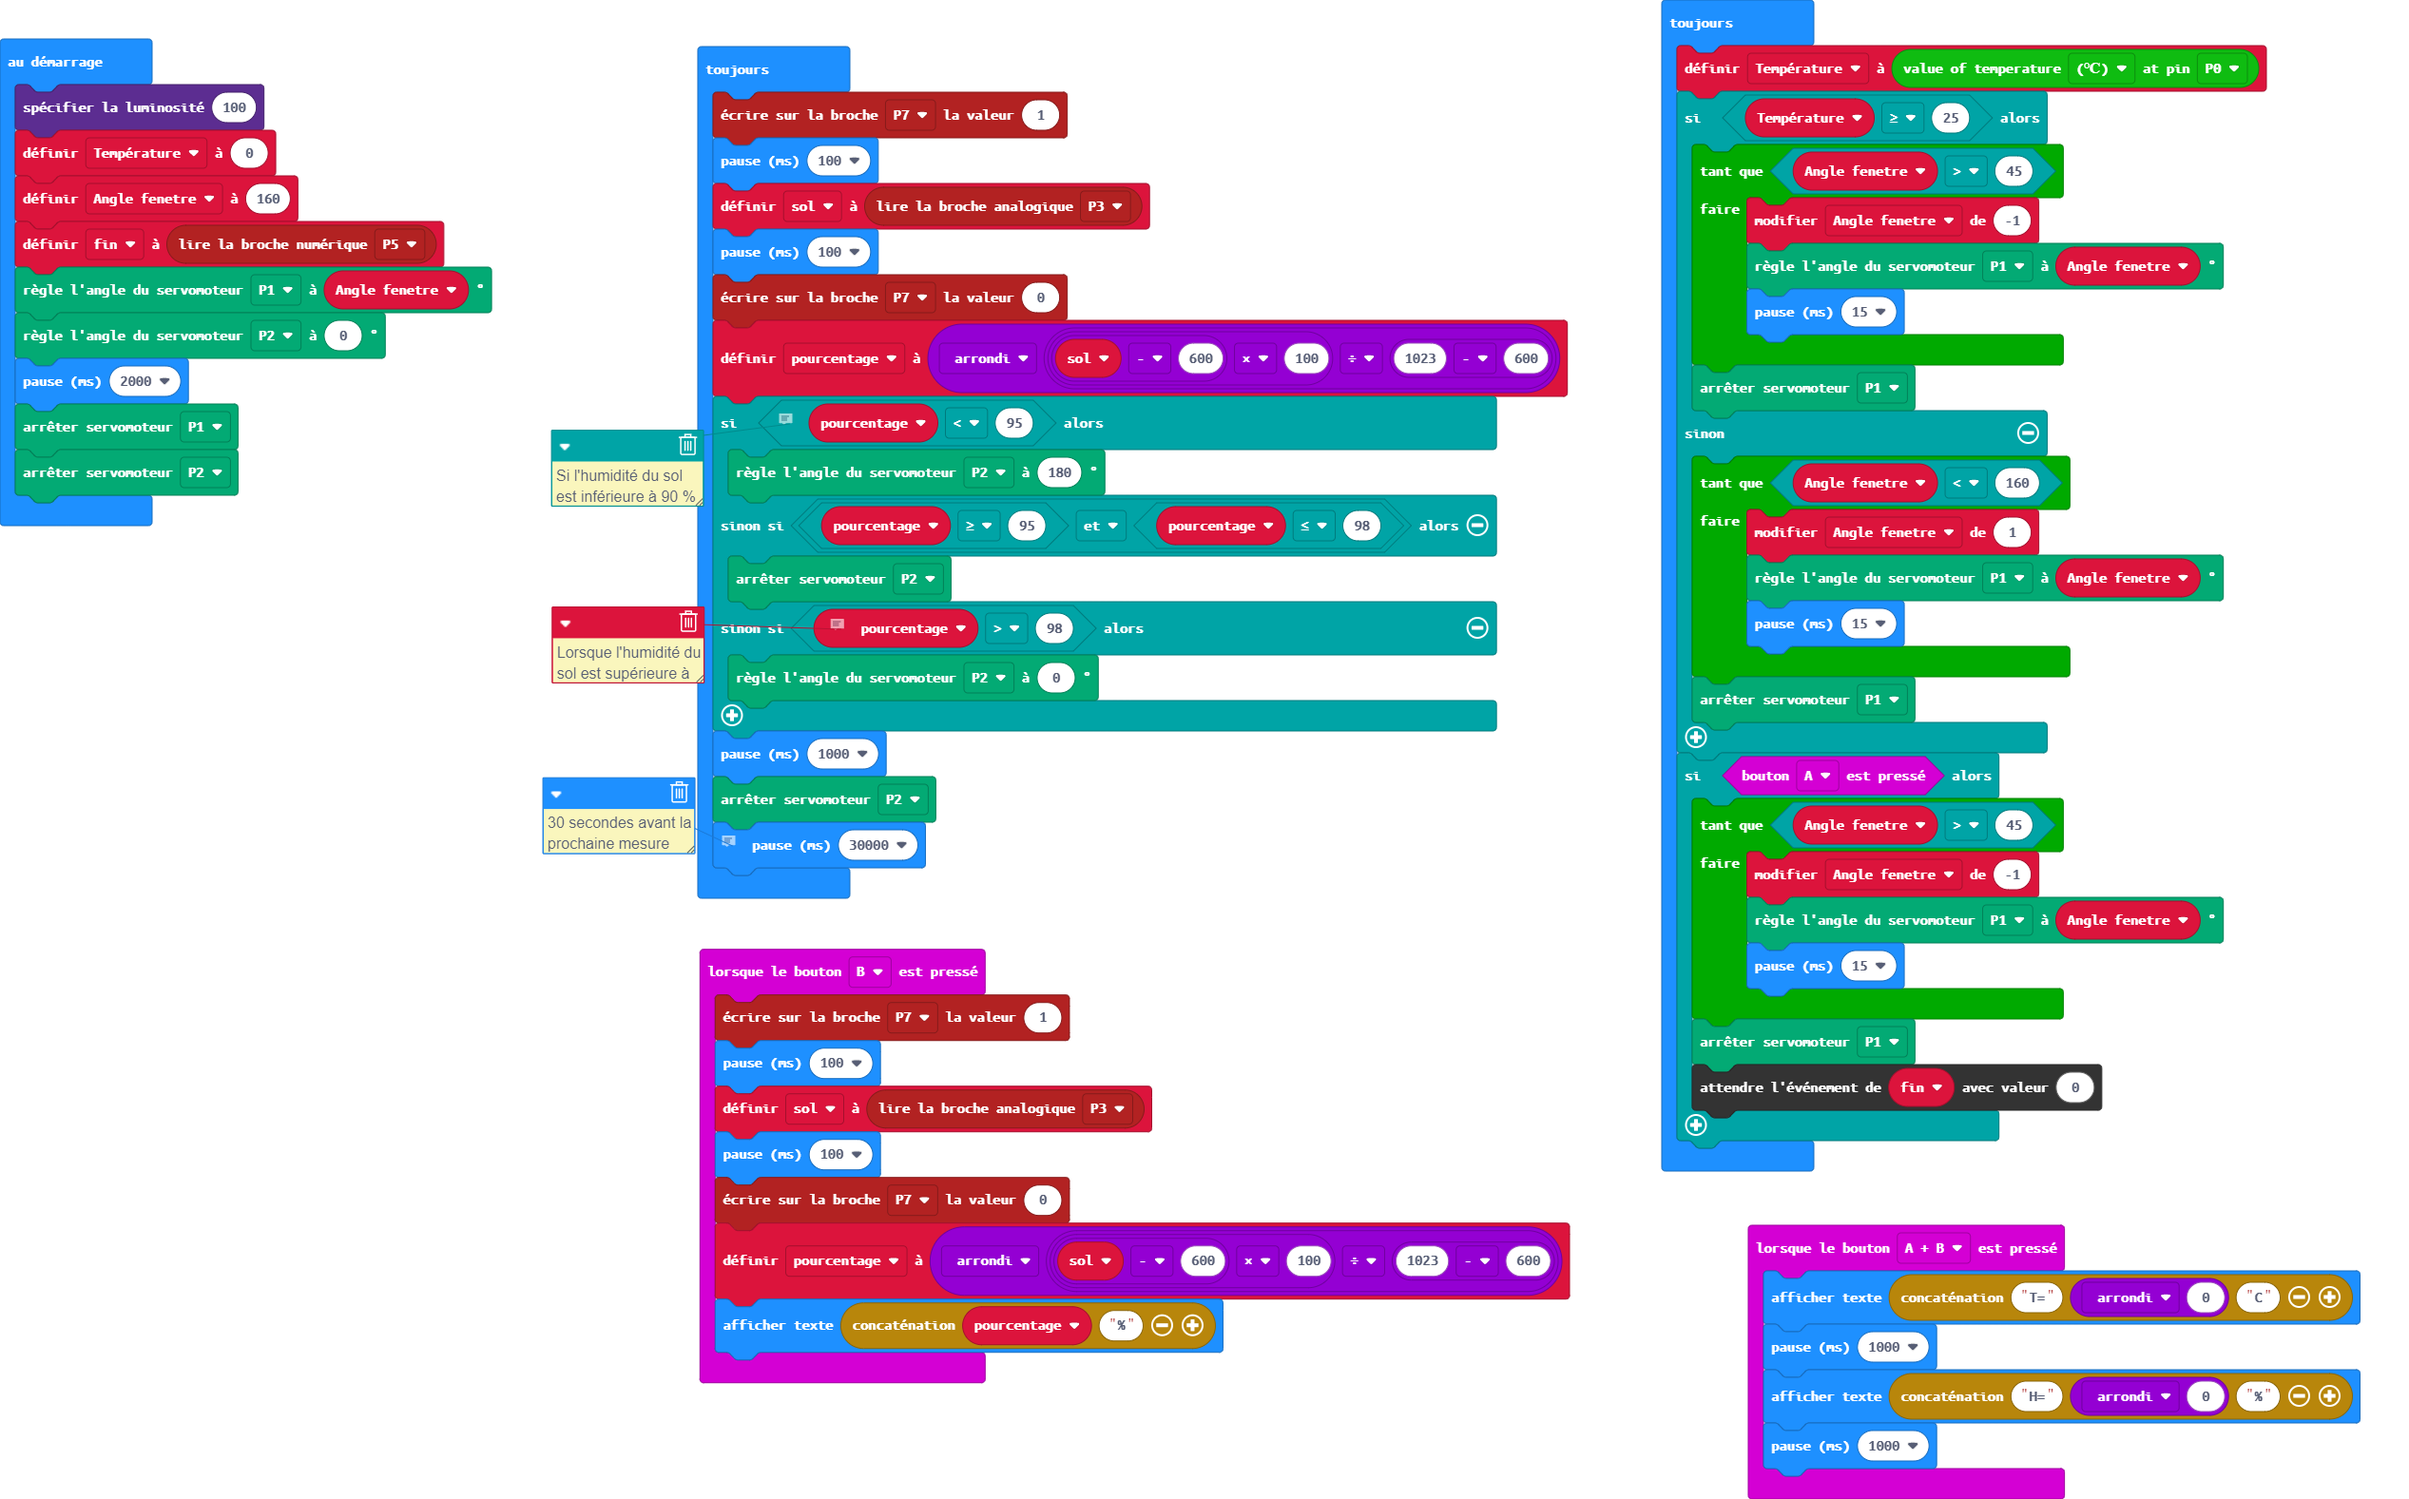
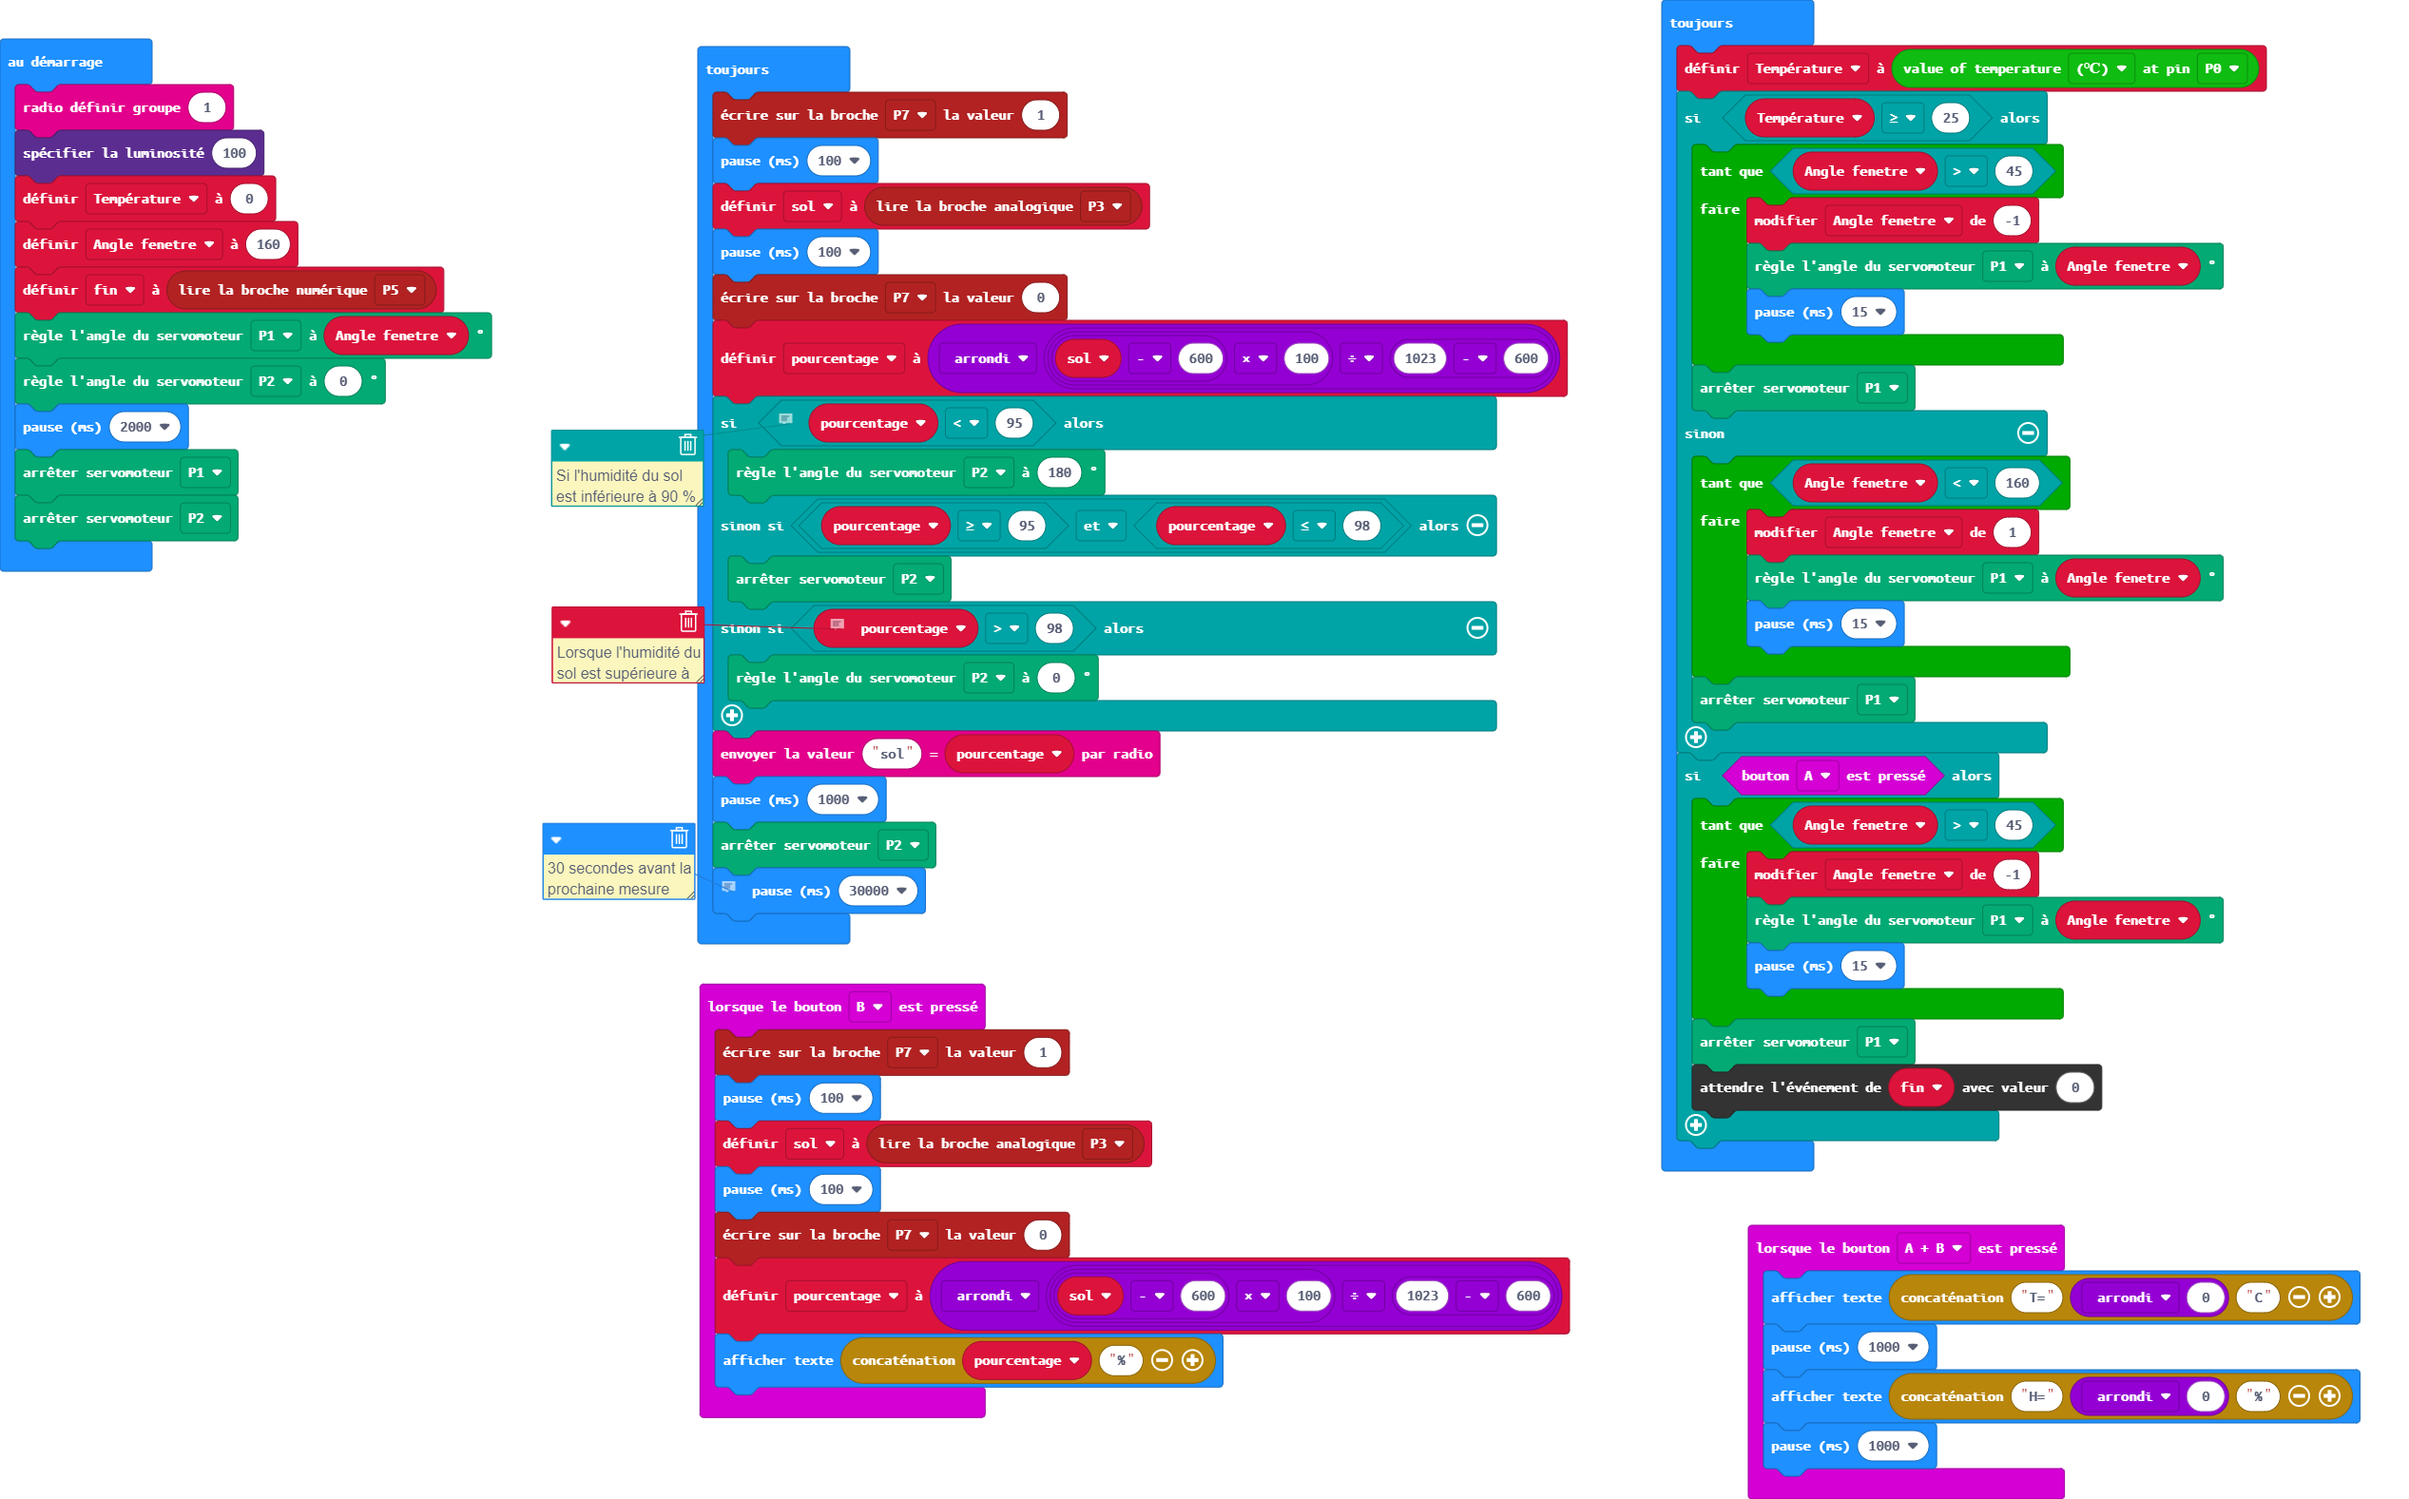
Mise à jour main.blocks, main.ts

Changed region(s): [[0.2182, 0.4661, 0.6547, 0.9632], [0.0, 0.0311, 0.2182, 0.4039]]

diff --git a/main.ts b/main.ts
@@ -15,6 +15,7 @@ input.onButtonPressed(Button.B, function () {
 })
 let pourcentage = 0
 let sol = 0
+radio.setGroup(1)
 led.setBrightness(100)
 let Température = 0
 let Angle_fenetre = 160
@@ -40,6 +41,7 @@ basic.forever(function () {
     } else if (pourcentage > 98) {
         servos.P2.setAngle(0)
     }
+    radio.sendValue("sol", pourcentage)
     basic.pause(1000)
     servos.P2.stop()
     // 30 secondes avant la prochaine mesure
